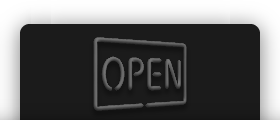
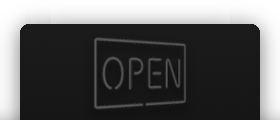
fix: update header images and fix incorrect file names in directories and in code

diff --git a/uiadditions&improvements/src/css/style.css b/uiadditions&improvements/src/css/style.css
@@ -21,7 +21,7 @@
     background-image: url(../assets/images/header/background.png);
 }
 :root.dark #header {
-    background-image: url(https://raw.githubusercontent.com/kamarov-therussiantank/TankTrouble-Mini-Extensions/refs/heads/main/uiadditions%26improvements/src/assets/images/header/background1.png);
+    background-image: url(https://raw.githubusercontent.com/kamarov-therussiantank/TankTrouble-Mini-Extensions/refs/heads/main/uiadditions%26improvements/src/assets/images/header/background.png);
 }
 #gameTab img {
     padding: 60px 0px 0px 380px;